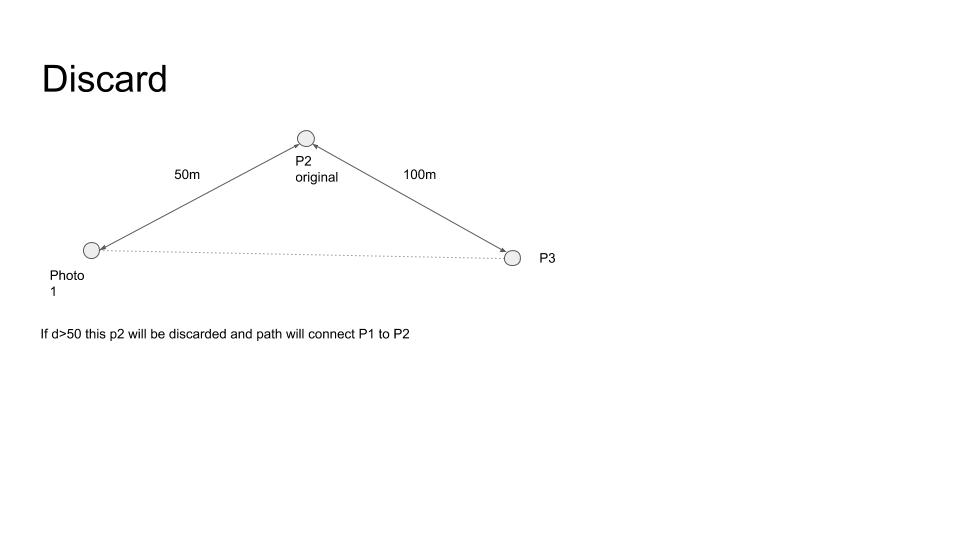
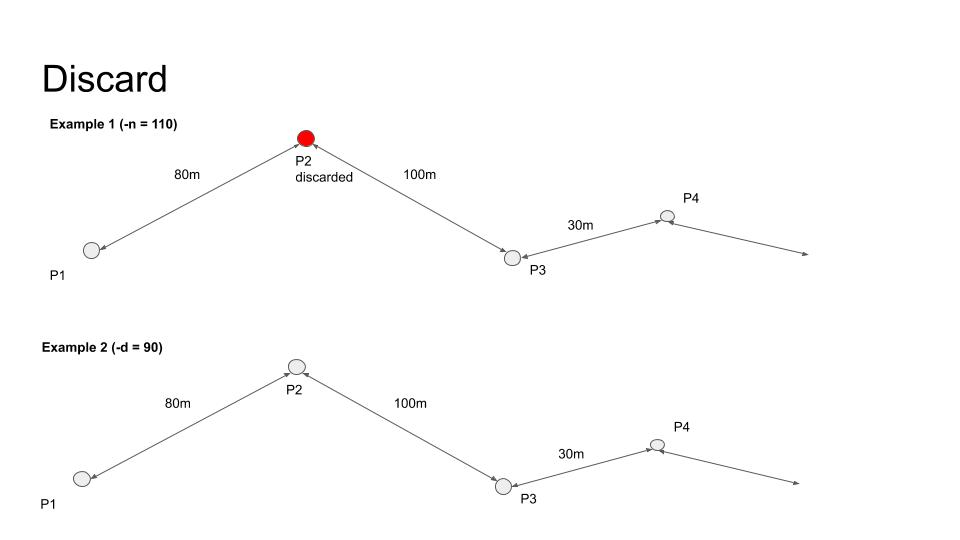
adding better examples

diff --git a/README.md b/README.md
@@ -16,12 +16,6 @@ As such, it is often advantageous to capture a secondary GPS track using a dedic
 
 [Exiftool already offers the ability to do basic geotagging](https://exiftool.org/geotag.html).
 
-![Discard photos](/readme-images/discard-viz.jpg)
-
-![Normalise photos](/readme-images/normalisation-viz.jpg)
-
-There can also be issues around accuracy of geotagged images regardless of whether a separate track file is used. In this case, it might be the case that the user wants to 1) discard gps / images that are clearly corrupt (significantly off the standard deviation of path) or 2) normalise them between 
-
 Image Geotagger is a wrapper around this functionality with additional features we find useful during the geotagging process (e.g time corrections)
 
 ## How it works
@@ -30,9 +24,18 @@ Image Geotagger is a wrapper around this functionality with additional features 
 2. If GPS track used, you define any timestamp offsets ([similar functionality to Image / Video timestamper](https://github.com/trek-view/image-video-timestamper))
 3. You define any discard and / or normalisation requirements
 4. The script compares timestamps between track and photo
-5. The script embeds the GPS track data into the EXIF of the image
+5. The script embeds the GPS track data into the EXIF of the image and orders images in ascending time order
 6. Based on normalisation or discard values entered, the script writes new GPS data or discards images
 7. The script outputs a new panoramic photo with GPS metadata in the output directory defined
+
+
+### Limitations / Considerations
+
+**Estimations**
+
+
+
+
 
 ## Requirements
 
@@ -54,15 +57,6 @@ Works on Windows, Linux and MacOS.
 Currently supported GPS track log file formats:
 
 * GPX
-* NMEA (RMC, GGA, GLL and GSA sentences)
-* KML
-* IGC (glider format)
-* Garmin XML and TCX
-* Magellan eXplorist PMGNTRK
-* Honeywell PTNTHPR
-* Bramor gEO log
-* Winplus Beacon .TXT
-* GPS/IMU .CSV
 * [ExifTool .CSV file](https://exiftool.org/geotag.html#CSVFormat)
 
 ## Quick start guide
@@ -74,17 +68,32 @@ Currently supported GPS track log file formats:
 * -m mode
 	- Overwrite: Will overwrite any existing geotags in image photo files with data from GPS log
 	- Missing: Will only add GPS tags to any photos in series that do no contain any geotags, and ignore photos with any existing geotags
-
 * -d discard
 	- value in meters: the script will order the files into GPSDateTime order and calculate distance (horizontal) between photos. If distance calculated is greater than discard value set between photos, these photos will be considered corrupt and discarded
-
 * -n normalise: 
 	- value in meters. The script will order the files into GPSDateTime order and calculate distance (horizontal) between photos. If value greater than normalise value the script will find the midpoint between two photos either side in order and assign the midpoint as correct gps. Note for first and last photo it is impossible to calculate midpoint, hence if first / last connection exceeds normalise value set, these photos will be discarded.
-
-Note, you can use -d or -n arguments, but not both.
-
 * -o offset gps track times
-	- value in seconds to offset gps track. Can be either positive of negative.
+	- value in seconds to offset each gps track timestamp. Can be either positive of negative.
+
+**About discard and normalise**
+
+There can also be issues around accuracy of geotagged images regardless of whether a separate track file is used. In this case, the user might wants to 1) discard gps / images that are clearly corrupt (significantly off the standard deviation of path) or 2) normalise the points so they form a more linear line.
+
+![Discard photos](/readme-images/discard-viz.jpg)
+
+In the case of discard, the first 3 connections (photo time 0 to photo time 1 to photo time 2) will be analysed against the -d value. If both connection distance values are greater than -d (p1 to p2, and p2 to p3), then the middle photo is discarded. If only one distance value is grater than -d, then middle photo remains.
+
+The script then considers then next trio of images. In Example 1 this would be P3, P4 and P5 (because P2 was discarded). In example 2 this would be P2, P3 and P4 (because P2 not discarded)
+
+![Normalise photos](/readme-images/normalisation-viz.jpg)
+
+Normalise works in a similar was to discard where the first 3 connections (photo time 0 to photo time 1 to photo time 2) will be analysed against the -n value
+
+Note, you can use -d or -n arguments, but not both. If both connection distance values are greater than -n (p1 to p2, and p2 to p3), then the middle photo is normalised.  If only one distance value is grater than -n, then middle photo remains untouched.
+
+Normalisation essentially finds the midpoint between first and last connections in a trio (p1 to p3) and then assigns the returned lat / lon values to the middle photo (p2). The altitude for the normalised photo is also adjusted to the vertical midpoint of p1 and p3 ((alt p1 + alt p2) / 2 = alt p3).
+
+The script then considers then next trio of images. In both examples this would be P2, P3 and P4.
 
 **About time offset**
 
